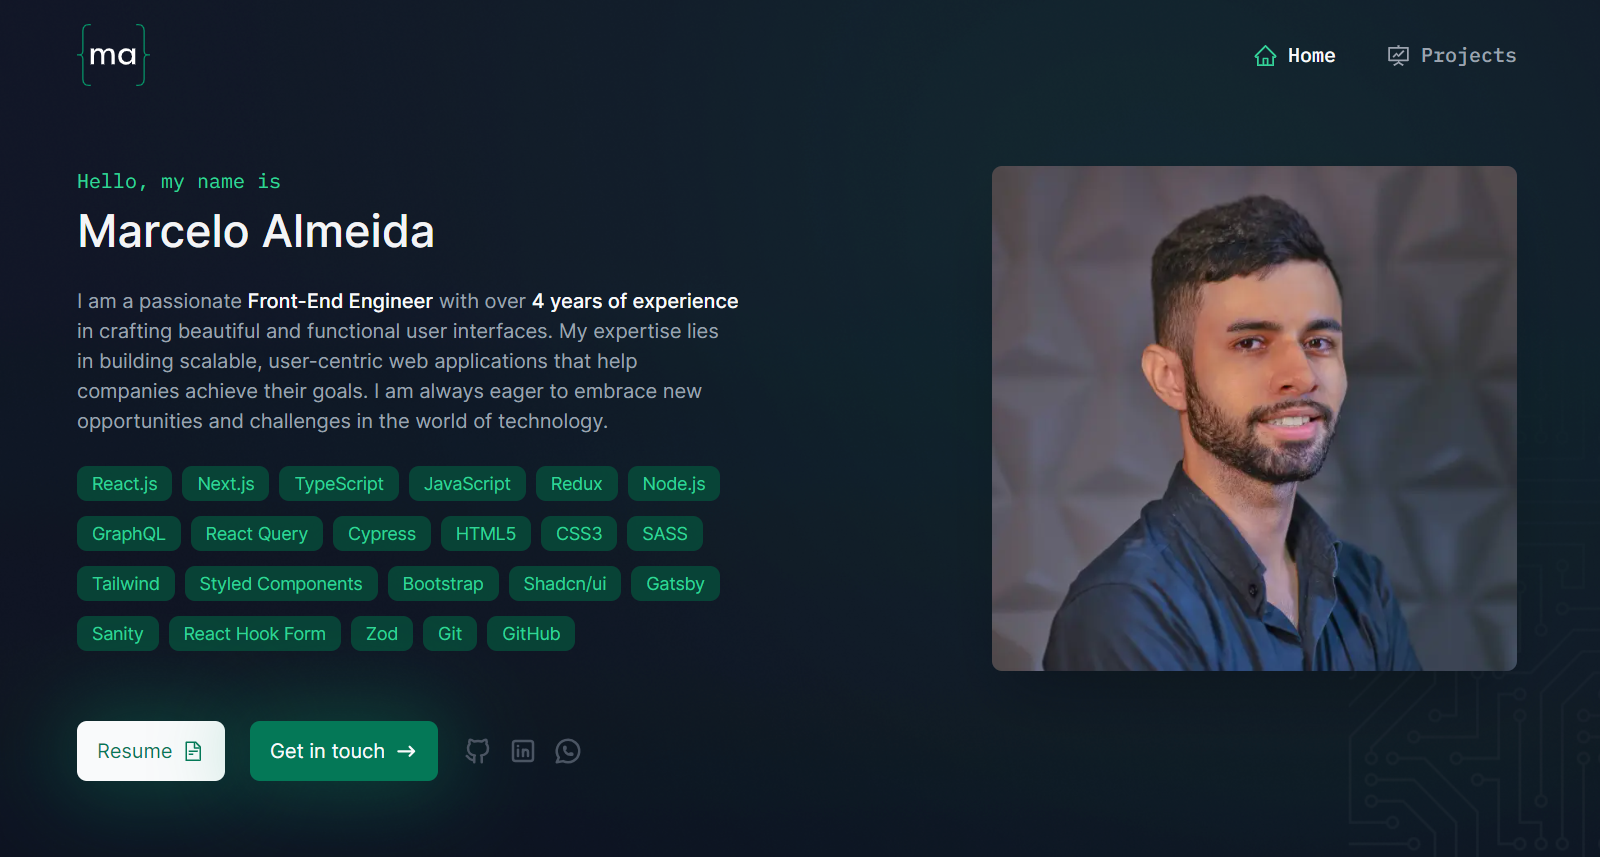
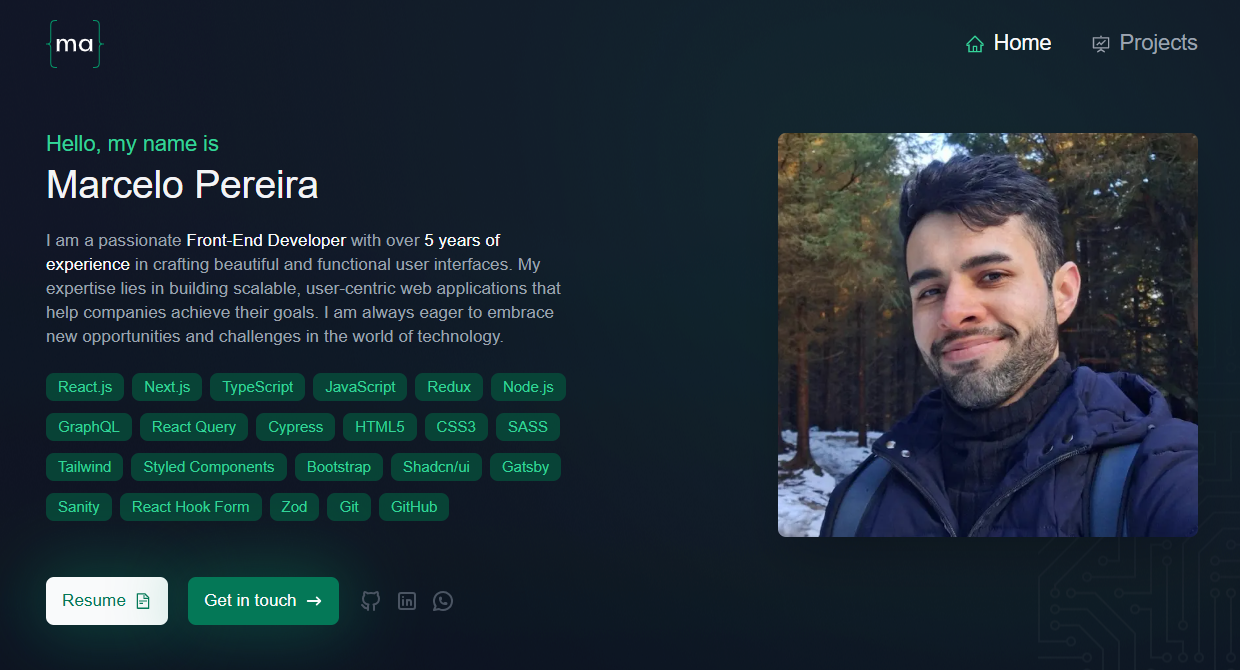
chore: update my name and picture in the project

diff --git a/src/app/layout.tsx b/src/app/layout.tsx
@@ -1,62 +1,62 @@
-import { Metadata } from "next";
-import { ReactNode } from "react";
-import { Inter, IBM_Plex_Mono } from "next/font/google";
-import "./globals.css";
-import { Header } from "../components/header";
-import { Toaster } from "../components/toaster";
-import { ContactForm } from "../components/contact-form";
-import { BackToTop } from "../components/back-to-top";
-import { Footer } from "../components/footer";
+import { Metadata } from 'next';
+import { ReactNode } from 'react';
+import { Inter, IBM_Plex_Mono } from 'next/font/google';
+import './globals.css';
+import { Header } from '../components/header';
+import { Toaster } from '../components/toaster';
+import { ContactForm } from '../components/contact-form';
+import { BackToTop } from '../components/back-to-top';
+import { Footer } from '../components/footer';
 
 const inter = Inter({
-  variable: "--font-inter",
-  subsets: ["latin"],
-  display: "swap",
+  variable: '--font-inter',
+  subsets: ['latin'],
+  display: 'swap',
 });
 
 const plexMono = IBM_Plex_Mono({
-  variable: "--font-plex-mono",
-  subsets: ["latin"],
-  weight: ["400", "500"],
-  display: "swap",
+  variable: '--font-plex-mono',
+  subsets: ['latin'],
+  weight: ['400', '500'],
+  display: 'swap',
 });
 
 export const metadata: Metadata = {
-  applicationName: "Marcelo Almeida",
+  applicationName: 'Marcelo Pereira',
   title: {
-    default: "Home | Marcelo Almeida",
-    template: "%s | Marcelo Almeida",
+    default: 'Home | Marcelo Pereira',
+    template: '%s | Marcelo Pereira',
   },
-  icons: [{ url: "/favicon.ico" }],
+  icons: [{ url: '/favicon.ico' }],
   description:
-    "Welcome to my portfolio! Here you can explore my selected projects, which showcase my skills in front-end development and my dedication to delivering high-quality web applications.",
-  manifest: "/manifest.json",
-  themeColor: "#10B981",
+    'Welcome to my portfolio! Here you can explore my selected projects, which showcase my skills in front-end development and my dedication to delivering high-quality web applications.',
+  manifest: '/manifest.json',
+  themeColor: '#10B981',
   openGraph: {
-    title: "Marcelo Almeida",
+    title: 'Marcelo Pereira',
     description:
-      "Welcome to my portfolio! Here you can explore my selected projects, which showcase my skills in front-end development and my dedication to delivering high-quality web applications.",
-    url: "https://marceloalmeida.vercel.app",
+      'Welcome to my portfolio! Here you can explore my selected projects, which showcase my skills in front-end development and my dedication to delivering high-quality web applications.',
+    url: 'https://marcelopereira.vercel.app',
     images: [
       {
-        url: "https://marceloalmeida.vercel.app/icon-384x384.png",
+        url: 'https://marcelopereira.vercel.app/icon-384x384.png',
         width: 384,
         height: 384,
       },
       {
-        url: "https://marceloalmeida.vercel.app/icon-512x512.png",
+        url: 'https://marcelopereira.vercel.app/icon-512x512.png',
         width: 512,
         height: 512,
       },
     ],
-    locale: "en-US",
-    type: "website",
+    locale: 'en-US',
+    type: 'website',
   },
   twitter: {
-    title: "Marcelo Almeida",
+    title: 'Marcelo Pereira',
     description:
-      "Welcome to my portfolio! Here you can explore my selected projects, which showcase my skills in front-end development and my dedication to delivering high-quality web applications.",
-    card: "summary",
+      'Welcome to my portfolio! Here you can explore my selected projects, which showcase my skills in front-end development and my dedication to delivering high-quality web applications.',
+    card: 'summary',
   },
 };
 

diff --git a/src/components/pages/home/hero-section/index.tsx b/src/components/pages/home/hero-section/index.tsx
@@ -1,16 +1,16 @@
-"use client";
+'use client';
 
-import Image from "next/image";
-import Link from "next/link";
-import { HiArrowNarrowRight } from "react-icons/hi";
-import { AiOutlineFileText } from "react-icons/ai";
-import { motion } from "framer-motion";
-import { techBadgeAnimation } from "@/src/lib/animations";
-import { HomePageInfo } from "@/src/@types/page-info";
-import { RichText } from "@/src/components/rich-text";
-import { TechBadge } from "@/src/components/tech-badge";
-import { CMSIcon } from "@/src/components/cms-icon";
-import { Button } from "@/src/components/button";
+import Image from 'next/image';
+import Link from 'next/link';
+import { HiArrowNarrowRight } from 'react-icons/hi';
+import { AiOutlineFileText } from 'react-icons/ai';
+import { motion } from 'framer-motion';
+import { techBadgeAnimation } from '@/src/lib/animations';
+import { HomePageInfo } from '@/src/@types/page-info';
+import { RichText } from '@/src/components/rich-text';
+import { TechBadge } from '@/src/components/tech-badge';
+import { CMSIcon } from '@/src/components/cms-icon';
+import { Button } from '@/src/components/button';
 
 type HeroSectionProps = {
   homeInfo: HomePageInfo;
@@ -18,10 +18,10 @@ type HeroSectionProps = {
 
 export const HeroSection = ({ homeInfo }: HeroSectionProps) => {
   const handleContact = () => {
-    const contactSection = document.querySelector("#contact");
+    const contactSection = document.querySelector('#contact');
 
     if (contactSection) {
-      contactSection.scrollIntoView({ behavior: "smooth" });
+      contactSection.scrollIntoView({ behavior: 'smooth' });
     }
   };
 
@@ -36,7 +36,7 @@ export const HeroSection = ({ homeInfo }: HeroSectionProps) => {
           transition={{ duration: 0.5 }}
         >
           <p className="font-mono text-emerald-400">Hello, my name is</p>
-          <h2 className="text-4xl font-medium mt-2">Marcelo Almeida</h2>
+          <h2 className="text-4xl font-medium mt-2">Marcelo Pereira</h2>
 
           <div className="text-gray-400 my-6 text-sm sm:text-base">
             <RichText content={homeInfo.introduction.raw} />
@@ -56,12 +56,12 @@ export const HeroSection = ({ homeInfo }: HeroSectionProps) => {
           <div className="mt-6 lg:mt-10 flex sm:items-center sm:gap-5 flex-col sm:flex-row">
             <Link
               href={
-                "https://docs.google.com/document/d/1vdwlo17KRDFKvgS_878ADEEZy_hMfsN8/edit?usp=sharing&ouid=108058612914376861985&rtpof=true&sd=true"
+                'https://docs.google.com/document/d/1vdwlo17KRDFKvgS_878ADEEZy_hMfsN8/edit?usp=sharing&ouid=108058612914376861985&rtpof=true&sd=true'
               }
               target="_blank"
               className="w-full sm:w-max"
               rel="noreferrer"
-              aria-label={`Link to Marcelo Almeida Resume`}
+              aria-label={`Link to Marcelo Pereira Resume`}
             >
               <Button className="w-full sm:w-max shadow-button bg-gray-50 text-emerald-700 hover:text-gray-50 mb-3 sm:mb-0">
                 Resume <AiOutlineFileText size={18} />
@@ -103,7 +103,7 @@ export const HeroSection = ({ homeInfo }: HeroSectionProps) => {
             width={420}
             height={404}
             src={homeInfo.profilePicture.url}
-            alt="Profile pic of Marcelo Almeida"
+            alt="Profile pic of Marcelo Pereira"
             className="w-[300px] h-[300px] lg:w-[420px] lg:h-[404px] mb-6 lg:mb-0 shadow-2xl rounded-lg object-cover"
             priority
           />

diff --git a/src/components/footer/index.tsx b/src/components/footer/index.tsx
@@ -1,5 +1,5 @@
-import Link from "next/link";
-import { IoMdHeart } from "react-icons/io";
+import Link from 'next/link';
+import { IoMdHeart } from 'react-icons/io';
 
 export const Footer = () => {
   return (
@@ -10,7 +10,7 @@ export const Footer = () => {
           href="https://www.linkedin.com/in/marcelopajr/?locale=en_US"
           target="_blank"
         >
-          <strong className="font-medium">Marcelo Almeida</strong>
+          <strong className="font-medium">Marcelo Pereira</strong>
         </Link>
       </span>
     </footer>

diff --git a/README.md b/README.md
@@ -1,5 +1,5 @@
 <h1 align="center">
-    <img alt="Marcelo Almeida Logo" title="Marcelo Almeida Logo" src=".github/logo.svg" width="220px" />
+    <img alt="Marcelo Pereira Logo" title="Marcelo Pereira Logo" src=".github/logo.svg" width="220px" />
 </h1>
 
 <p align="center">
@@ -51,7 +51,7 @@ The website successfully:
 
 Visit my portfolio and discover my key projects by visiting my website:
 
-<h3 align="center"><a href="https://marceloalmeida.vercel.app" target="_blank">https://marceloalmeida.vercel.app</a> 🚀🌐</h3>
+<h3 align="center"><a href="https://marcelopereira.vercel.app" target="_blank">https://marcelopereira.vercel.app</a> 🚀🌐</h3>
 
 ## 🔧 Technologies
 
